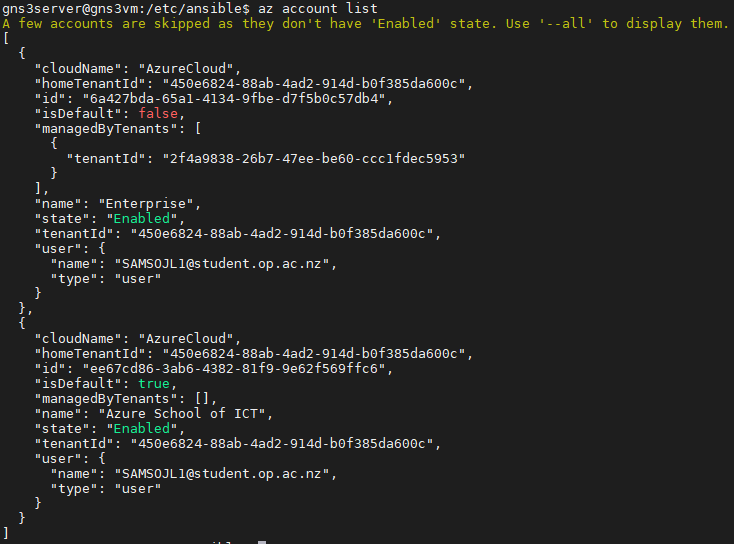
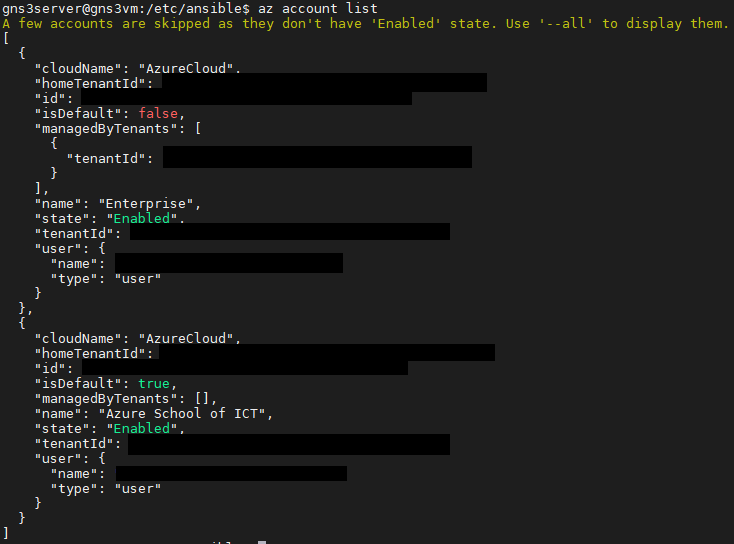
.

diff --git a/Special-Topic/Lab2-local.md b/Special-Topic/Lab2-local.md
@@ -161,7 +161,7 @@ Follow the on screen prompt and input the code it provides on the website then s
 
 After you have logged in you will be given an output that contains the information about your microsoft azure account
 
-<img src="Images/azdetails.PNG">
+<img src="Images/azdetailsred.PNG">
 
 When you use azure cli it will assign anything you create to your default subscription so if you have multiple subscriptions on your account we will need to set this
 
@@ -172,138 +172,166 @@ az account set --subscription <ID>
 ```
 
 After changing your subscription you wont be given a notification so you will need to verify that it has changed by using the following command
+
 ```
 az account list
 ```
 
-- sudo apt-get install python-pip
-- pip install packaging
-- pip install msrestazure
-- pip install ansible[azure]
+### Additional Steps
 
-We can now create a playbook that will create a virtual machine 
+Because ubuntu 20.04 comes with python 3.8 installed a few extra steps have to be taken in order to get ansible to work with the ansible azure modules
+
 ```
-- name: Create Azure VM
-  hosts: localhost
-  connection: local
+pip3 install azure-cli-core --upgrade
+pip3 install azure-storage-blob==0.37.1
+pip3 install azure-cli --upgrade
+pip3 install azure-storage==0.36.0
+pip3 install msrest --upgrade
+pip3 install msrestazure --upgrade
+pip3 install packaging --upgrade
+pip3 install setuptools --upgrade
+pip3 install azure-mgmt --upgrade
+pip3 install azure-mgmt-storage --upgrade
+pip3 install azure-mgmt==4.0.0
+pip3 install azure-mgmt-resource==2.1.0
+pip3 install azure-mgmt-stroage==3.1.0
+sudo apt-get install -y azure-cli
+```
 
-  vars:
-   vm_offer: "UbuntuServer"
-   vm_pub: "Canonical"
-   vm_sku: "18.04-LTS"
+Create a playbook that will create a virtual machine 
 
-   vm_size: "Standard_E2s_v3"
+```
+sudo vim /etc/ansible/create.yaml
+```
+Insert the following
+```
+---
+  - name: Create Azure VM
+    hosts: localhost
+    connection: local
 
-   az: "australiaeast"
-   net: "Ansible"
-   vm_net: "AnsibleVNet"
-   vm_subnet: "AnsibleSubnet"
+    vars:
+     vm_offer: "UbuntuServer"
+     vm_pub: "Canonical"
+     vm_sku: "18.04-LTS"
 
-   vm_publicIP: "AnsiblePublicIP"
-   vm_NSG: "AnsibleNSG"
-   vm_NIC: "AnsibleNIC"
-   vm_Name: "ansibletest"
+     vm_size: "Standard_E2s_v3"
 
-   resource_group: "ansible"
+     az: "australiaeast"
+     net: "Ansible"
+     vm_net: "AnsibleVNet"
+     vm_subnet: "AnsibleSubnet"
 
-   vm_peer: "AnsiblePeer"
+     vm_publicIP: "AnsiblePublicIP"
+     vm_NSG: "AnsibleNSG"
+     vm_NIC: "AnsibleNIC"
+     vm_Name: "ansibletest"
 
-   os_user: "ansible"
-   os_pass: "ansible@ssw0rd"
+     resource_group: "ansible"
 
-  tasks:
+     vm_peer: "AnsiblePeer"
 
-  - name: Create virtual network
-    azure_rm_virtualnetwork:
-      resource_group: "{{ resource_group }}"
-      name: "{{ vm_net }}"
-      address_prefixes: "10.0.0.0/16"
+     os_user: "ansible"
+     os_pass: "ansible@ssw0rd"
 
-  - name: Add subnet
-    azure_rm_subnet:
-      resource_group: "{{ resource_group }}"
-      name: "{{ vm_subnet }}"
-      address_prefix: "10.0.1.0/24"
-      virtual_network: "{{ vm_net }}"
+    tasks:
 
-  - name: Create public IP address
-    azure_rm_publicipaddress:
-      resource_group: "{{ resource_group }}"
-      allocation_method: Static
-      name: "{{ vm_publicIP }}"
-      domain_name: gitlab-test
-    register:  reg_publicIP
+    - name: Create virtual network
+      azure_rm_virtualnetwork:
+        resource_group: "{{ resource_group }}"
+        name: "{{ vm_net }}"
+        address_prefixes: "10.0.0.0/16"
 
-  - debug: var=reg_publicIP
+    - name: Add subnet
+      azure_rm_subnet:
+        resource_group: "{{ resource_group }}"
+        name: "{{ vm_subnet }}"
+        address_prefix: "10.0.1.0/24"
+        virtual_network: "{{ vm_net }}"
 
-  - name: Create Network Security Group that allows SSH
-    azure_rm_securitygroup:
-      resource_group: "{{ resource_group }}"
-      name: "{{ vm_NSG }}"
-      rules:
-        - name: SSH
-          protocol: Tcp
-          destination_port_range: 22
-          access: Allow
-          priority: 1001
-          direction: Inbound
-        - name: HTTP
-          protocol: Tcp
-          destination_port_range: 80
-          access: Allow
-          priority: 1002
-          direction: Inbound
-        - name: HTTPS
-          protocol: Tcp
-          destination_port_range: 443
-          access: Allow
-          priority: 1003
-          direction: Inbound
+    - name: Create public IP address
+      azure_rm_publicipaddress:
+        resource_group: "{{ resource_group }}"
+        allocation_method: Static
+        name: "{{ vm_publicIP }}"
+        domain_name: gitlab-test
+      register:  reg_publicIP
 
-  - name: Create virtual network interface card
-    azure_rm_networkinterface:
-      resource_group: "{{ resource_group }}"
-      name: "{{ vm_NIC }}"
-      virtual_network: "{{ vm_net }}"
-      subnet: "{{ vm_subnet }}"
-      public_ip_name: "{{ vm_publicIP }}"
-      security_group: "{{ vm_NSG }}"
+    - debug: var=reg_publicIP
 
-  - name: Create VM
-    azure_rm_virtualmachine:
-      resource_group: "{{ resource_group }}"
-      name: "{{ vm_Name }}"
-      vm_size: "{{ vm_size }}"
-      admin_username: "{{ os_user }}"
-      admin_password: "{{ os_pass }}"
-      ssh_password_enabled: true
-      network_interfaces: "{{ vm_NIC }}"
-      image:
-        offer: "{{ vm_offer }}"
-        publisher: "{{ vm_pub }}"
-        sku: "{{ vm_sku }}"
-        version: latest
+    - name: Create Network Security Group that allows SSH
+      azure_rm_securitygroup:
+        resource_group: "{{ resource_group }}"
+        name: "{{ vm_NSG }}"
+        rules:
+          - name: SSH
+            protocol: Tcp
+            destination_port_range: 22
+            access: Allow
+            priority: 1001
+            direction: Inbound
+          - name: HTTP
+            protocol: Tcp
+            destination_port_range: 80
+            access: Allow
+            priority: 1002
+            direction: Inbound
+          - name: HTTPS
+            protocol: Tcp
+            destination_port_range: 443
+            access: Allow
+            priority: 1003
+            direction: Inbound
 
-  - name: Peer Old To New
-    azure_rm_virtualnetworkpeering:
-      resource_group: "{{ resource_group }}"
-      virtual_network: "{{ net }}"
-      name: "{{ vm_peer }}"
-      remote_virtual_network:
-              resource_group: "{{ resource_group }}"
-              name: "{{ vm_net }}"
-      allow_virtual_network_access: true
-      allow_forwarded_traffic: true
+   - name: Create virtual network interface card
+      azure_rm_networkinterface:
+        resource_group: "{{ resource_group }}"
+        name: "{{ vm_NIC }}"
+        virtual_network: "{{ vm_net }}"
+        subnet: "{{ vm_subnet }}"
+        public_ip_name: "{{ vm_publicIP }}"
+        security_group: "{{ vm_NSG }}"
 
-  - name: Peer New To Old
-    azure_rm_virtualnetworkpeering:
-      resource_group: "{{ resource_group }}"
-      virtual_network: "{{ vm_net }}"
-      name: "{{ net }}"
-      remote_virtual_network:
-              resource_group: "{{ resource_group }}"
-              name: "{{ net }}"
-      allow_virtual_network_access: true
-      allow_forwarded_traffic: true
+    - name: Create VM
+      azure_rm_virtualmachine:
+        resource_group: "{{ resource_group }}"
+        name: "{{ vm_Name }}"
+        vm_size: "{{ vm_size }}"
+        admin_username: "{{ os_user }}"
+        admin_password: "{{ os_pass }}"
+        ssh_password_enabled: true
+        network_interfaces: "{{ vm_NIC }}"
+        image:
+          offer: "{{ vm_offer }}"
+          publisher: "{{ vm_pub }}"
+          sku: "{{ vm_sku }}"
+          version: latest
+
+    - name: Peer Old To New
+      azure_rm_virtualnetworkpeering:
+        resource_group: "{{ resource_group }}"
+        virtual_network: "{{ net }}"
+        name: "{{ vm_peer }}"
+        remote_virtual_network:
+                resource_group: "{{ resource_group }}"
+                name: "{{ vm_net }}"
+        allow_virtual_network_access: true
+        allow_forwarded_traffic: true
+
+    - name: Peer New To Old
+      azure_rm_virtualnetworkpeering:
+        resource_group: "{{ resource_group }}"
+        virtual_network: "{{ vm_net }}"
+        name: "{{ net }}"
+        remote_virtual_network:
+                resource_group: "{{ resource_group }}"
+                name: "{{ net }}"
+        allow_virtual_network_access: true
+        allow_forwarded_traffic: true
 ```
 At the end of this playbook we added the azure_rm_virtualnetworkpeering module, this will allow devices in different networks to communicate with each other
+
+```
+ansible-playbook create.yaml
+```
+

diff --git a/Special-Topic/Lab3.md b/Special-Topic/Lab3.md
@@ -323,6 +323,7 @@ And insert the following
 
 ### Backup
 
+Create the directory that you will use to store the backup files
 ```
 sudo mkdir ~/ansible
 ```
